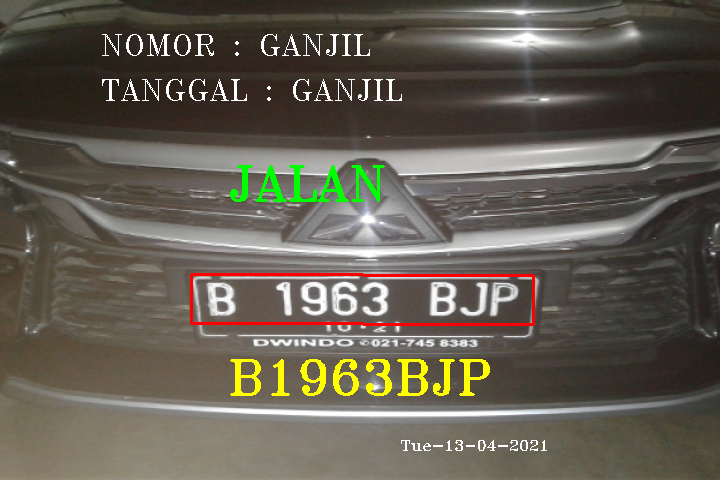
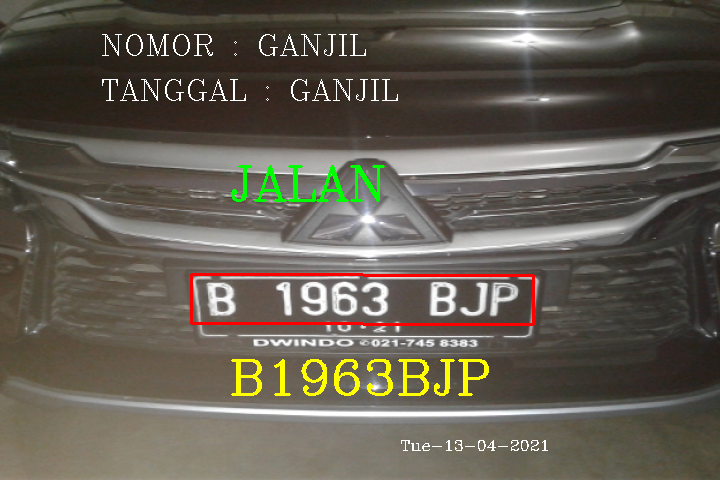
2nd commit

diff --git a/Main.py b/Main.py
@@ -9,14 +9,12 @@ import os
 import datetime
 import numbers
 import cv2
-from PIL import ImageFont, ImageDraw, Image
 
 import Calibration as cal
 import DetectChars
 import DetectPlates
 import Preprocess as pp
 import imutils
-import numpy as np
 
 # Module level variables for image ##########################################################################
 
@@ -135,23 +133,7 @@ def main():
                 licenses_verify.append(new_license)
 
 
-        # Pass the image to PIL
-        cv2_im_rgb1 = cv2.cvtColor(img_original_scene, cv2.COLOR_BGR2RGB)
-        pil_im1 = Image.fromarray(cv2_im_rgb1)
-
-        draw1 = ImageDraw.Draw(pil_im1)
-        # use a truetype font
-        font1 = ImageFont.truetype("arial.ttf", 20)
-
-        # Draw the text
-        draw1.text((400, 400), waktu, font=font1)
-
-        # Get back the image to OpenCV
-        cv2_im_processed1 = cv2.cvtColor(np.array(pil_im1), cv2.COLOR_BGR2RGB)
-
-        cv2.imshow('duls', cv2_im_processed1)
-
-        cv2.putText(img_original_scene, waktu, (400, 450), cv2.FONT_HERSHEY_TRIPLEX, 0.5, (255, 255, 255), 1,
+        cv2.putText(img_original_scene, waktu, (400, 450), cv2.FONT_HERSHEY_COMPLEX, 0.5, (255, 255, 255), 1,
                     bottomLeftOrigin=False)
 
         # cv2.putText(img_original_scene, "Press 's' to save frame to be 'save.png', for calibrating", (10, 30),
@@ -213,7 +195,8 @@ def writeLicensePlateCharsOnImage(imgOriginalScene, licPlate):
     sceneHeight, sceneWidth, sceneNumChannels = imgOriginalScene.shape
     plateHeight, plateWidth, plateNumChannels = licPlate.imgPlate.shape
 
-    intFontFace = cv2.FONT_HERSHEY_TRIPLEX  # choose a plain jane font
+    intFontFace = cv2.FONT_HERSHEY_COMPLEX  # choose a plain jane font
+
     fltFontScale = float(plateHeight) / 30.0  # base font scale on height of plate area
     intFontThickness = int(round(fltFontScale * 1.5))  # base font thickness on font scale
 
@@ -244,25 +227,6 @@ def writeLicensePlateCharsOnImage(imgOriginalScene, licPlate):
     ptLowerLeftTextOriginY = int(
         ptCenterOfTextAreaY + (textSizeHeight / 2))  # based on the text area center, width, and height
 
-
-    # Pass the image to PIL
-    # cv2_im_rgb = cv2.cvtColor(imgOriginalScene, cv2.COLOR_BGR2RGB)
-    # pil_im = Image.fromarray(cv2_im_rgb)
-    #
-    # draw = ImageDraw.Draw(pil_im)
-    # # use a truetype font
-    # font = ImageFont.truetype("arial.ttf", 20)
-    #
-    # # Draw the text
-    # draw.text((400, 400), waktu, font=font)
-    #
-    # # Get back the image to OpenCV
-    # cv2_im_processed = cv2.cvtColor(np.array(pil_im), cv2.COLOR_BGR2RGB)
-    #
-    # cv2.imshow('Fonts', cv2_im_processed)
-    #cv2.imshow('duls', duls)
-
-
     # write the text on the image
     cv2.putText(imgOriginalScene, licPlate.strChars, (ptLowerLeftTextOriginX, ptLowerLeftTextOriginY), intFontFace,
                 fltFontScale, SCALAR_YELLOW, intFontThickness)
@@ -277,20 +241,7 @@ def writeLicensePlateCharsOnImage(imgOriginalScene, licPlate):
         datesame = 1
         cv2.putText(imgOriginalScene, "TANGGAL : GANJIL", (100, 100), intFontFace, 1,
                     SCALAR_WHITE, 1)  # GANJIL
-        # cv2_im_rgb = cv2.cvtColor(imgOriginalScene, cv2.COLOR_BGR2RGB)
-        # pil_im = Image.fromarray(cv2_im_rgb)
-        #
-        # draw = ImageDraw.Draw(pil_im)
-        # # use a truetype font
-        # font = ImageFont.truetype("arial.ttf", 20)
-        #
-        # # Draw the text
-        # draw.text((400, 400), 'Tanggal: Ganjil', font=font)
-        #
-        # # Get back the image to OpenCV
-        # cv2_im_processed = cv2.cvtColor(np.array(pil_im), cv2.COLOR_BGR2RGB)
 
-        cv2.imshow('Fonts', cv2_im_processed)
     result_scanfix = []
     result_scan = licPlate.strChars
     for i in result_scan :
@@ -382,20 +333,6 @@ def writeLicensePlateCharsOnImage(imgOriginalScene, licPlate):
                 cv2.putText(imgOriginalScene, "TILANG", (ptLowerLeftTextOriginX, 200), intFontFace,
                                     fltFontScale, SCALAR_RED, intFontThickness)  # Tilang
 
-    cv2_im_rgb = cv2.cvtColor(imgOriginalScene, cv2.COLOR_BGR2RGB)
-    pil_im = Image.fromarray(cv2_im_rgb)
-
-    draw = ImageDraw.Draw(pil_im)
-    # use a truetype font
-    font = ImageFont.truetype("arial.ttf", 20)
-
-    # Draw the text
-    draw.text((400, 400), waktu, font=font)
-
-    # Get back the image to OpenCV
-    cv2_im_processed = cv2.cvtColor(np.array(pil_im), cv2.COLOR_BGR2RGB)
-
-    cv2.imshow('Fonts', cv2_im_processed)
 
 def searching(imgOriginalScene, loop):
     licenses = ""
